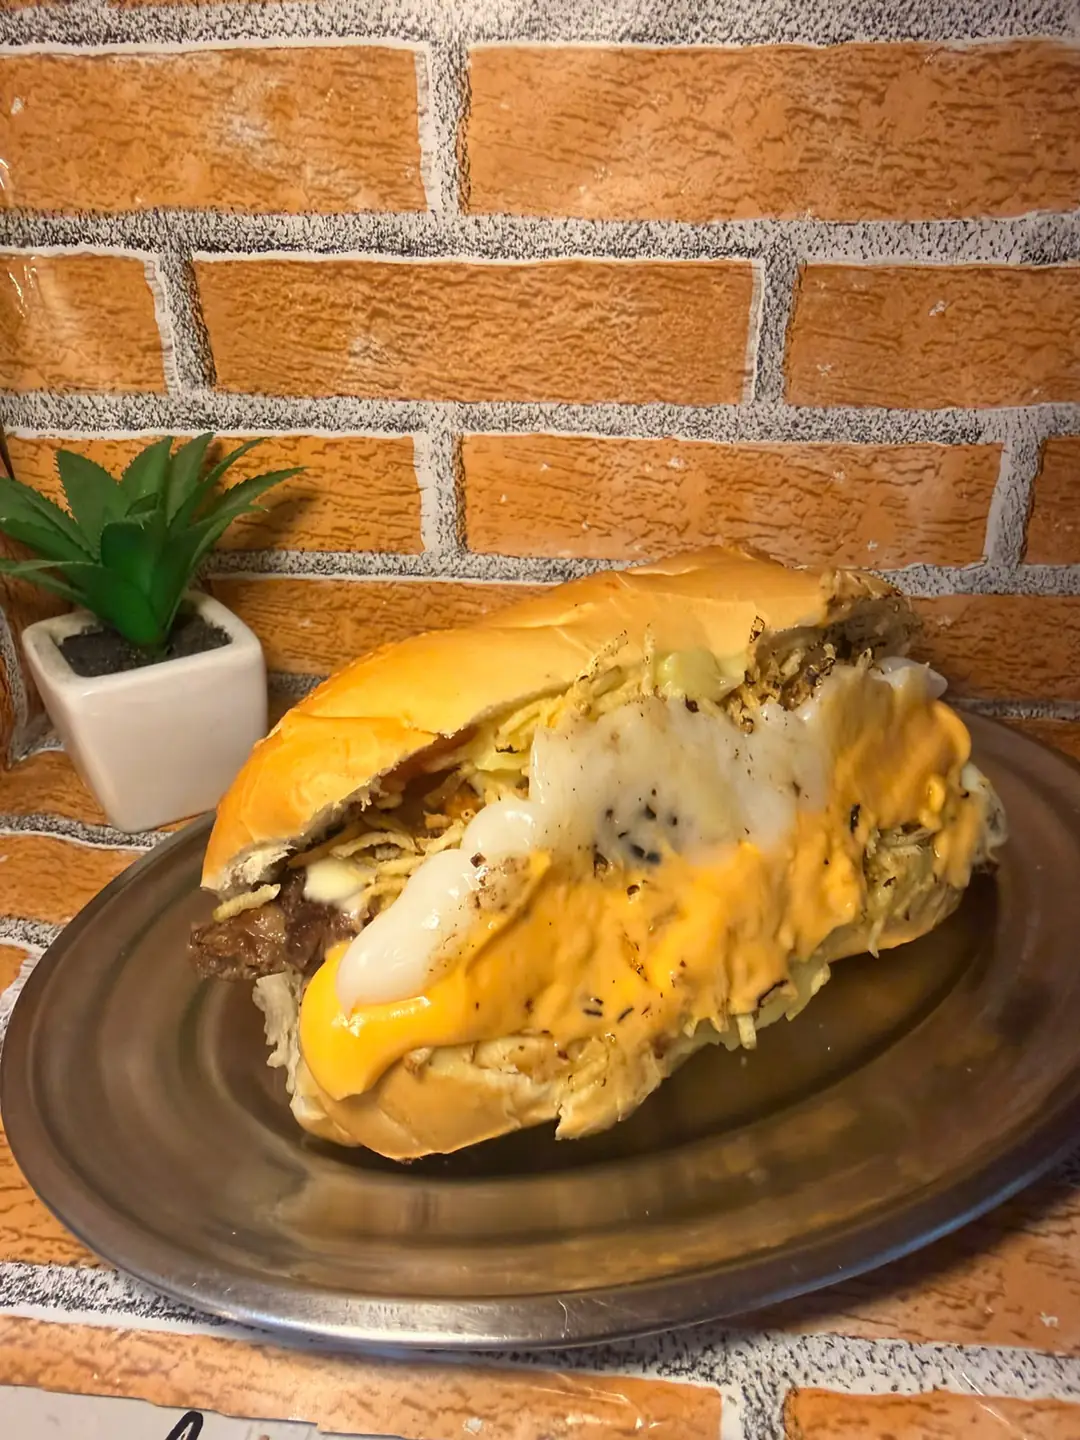
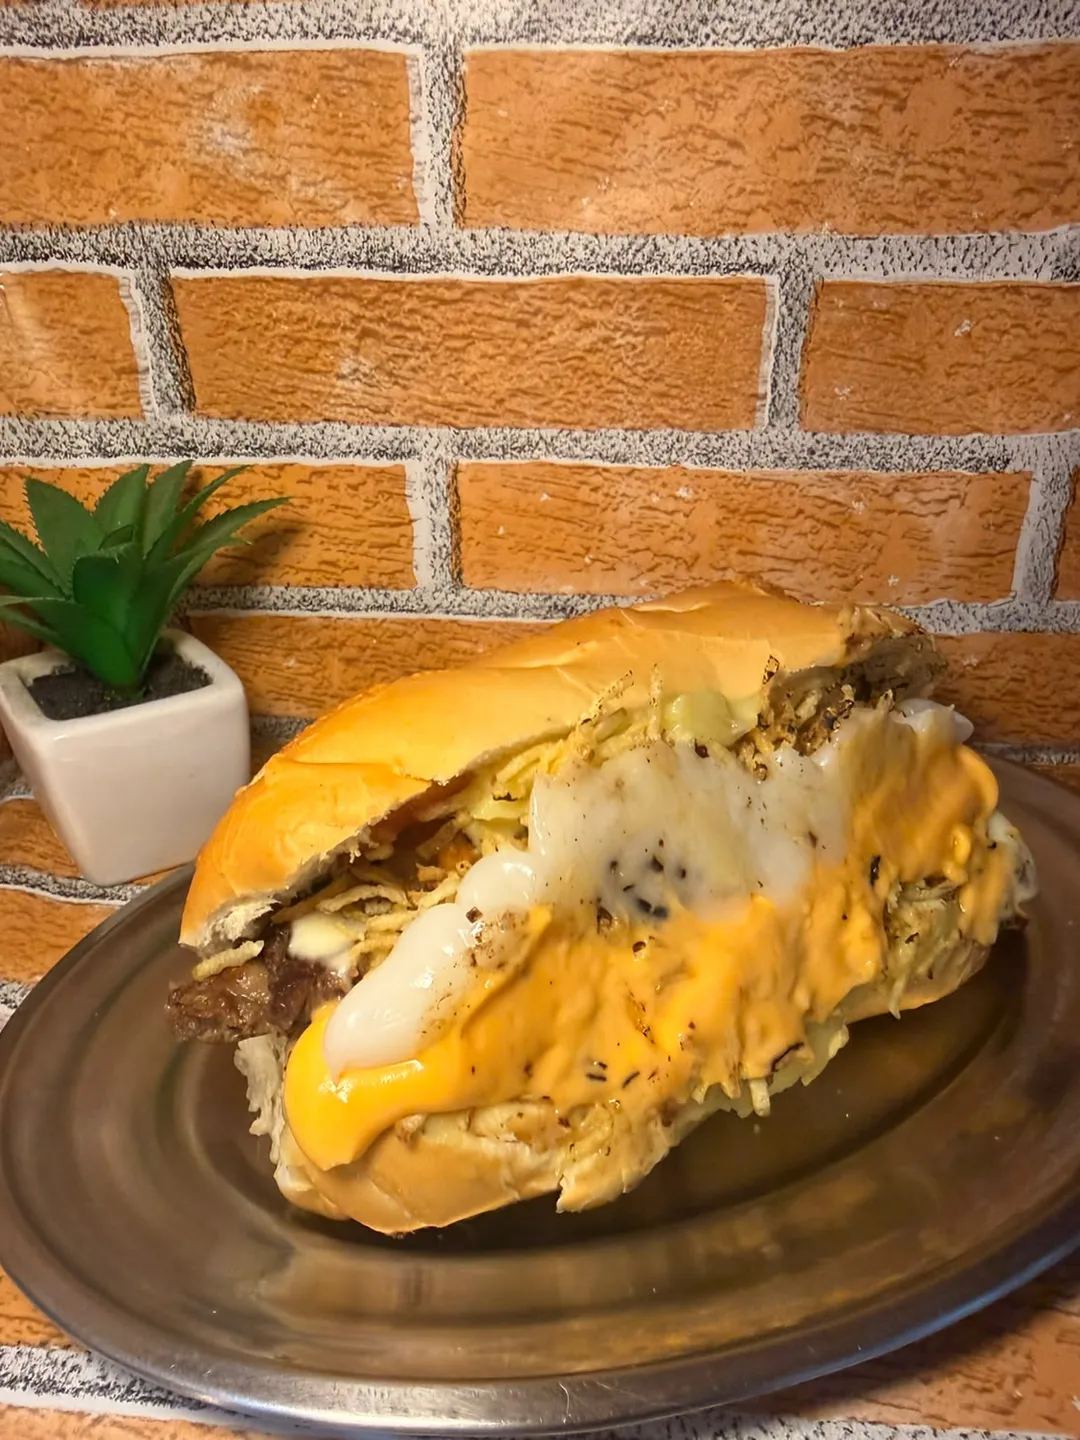
fix(fotos): recortes no mapa.json e x-churrasco sem o papel com anotação do canto
O canto de baixo da foto do X-Churrasco mostrava um papel com anotação à mão (S3, S7 e card), que o `foco` não cortava: a foto e o
quadro são 3:4. O pipeline ganhou `recortes` no mapa.json ({ x, y, w, h } em pixels do original já girado): as três variantes
saem do trecho e w e h do fotos.json são os dele. x-churrasco: 1128×1504 a partir do topo (sem os 96 px de baixo, ainda 3:4), foco
50% 72%. Só recorte, nada pintado nem retocado. Só as variantes do x-churrasco foram regravadas (o resto do `npm run fotos` saiu
byte a byte diferente por causa do codificador desta máquina e foi descartado).

- scripts/fotos.mjs: `validarRecorte` e o recorte antes das variantes; `arquivo` no fotos.json com barra normal também no Windows.
- tests/fotos.test.mjs: recorte no pipeline (dimensões, trecho do original, erros de região).
- fotos-originais/README.md documenta `recortes`.

diff --git a/fotos-originais/README.md b/fotos-originais/README.md
@@ -91,6 +91,10 @@ Chaves que começam com `_` são comentários.
 - **foco**: ponto focal do recorte quadrado `-q` (cards, sacola, stories), em `x% y%` da foto: o centro do lanche. O
   recorte é o maior quadrado com esse ponto no centro, sem sair da foto. `auto` deixa o sharp achar a região de interesse.
   Rodando de novo sobre a mesma foto, vale o foco que já está no `fotos.json`.
+- **recortes**: `{ "x-churrasco": { "x": 36, "y": 0, "w": 1128, "h": 1504 } }` tira da foto do produto o que não deve aparecer
+  (um papel com anotação no canto, por exemplo), em pixels da foto já em pé. As três variantes saem do trecho, e `w` e `h` do
+  `fotos.json` são os dele; o `foco` vale para o trecho. Mantenha a proporção da foto (3:4), para o quadro não cortar nada
+  além do que já cortava. É só recorte: nada é pintado nem retocado.
 - **paredes**: trecho de parede de tijolinho sem lanche, prato ou planta, em pixels da foto já em pé. Gera
   `public/assets/texturas/<nome ou tijolo-N>.webp` (até 1600 px de largura), sem retoque. Para medir, abra a foto num
   editor e anote o retângulo. A textura real substitui o `tijolo.svg` (desenhado em código), que é só o plano B.
